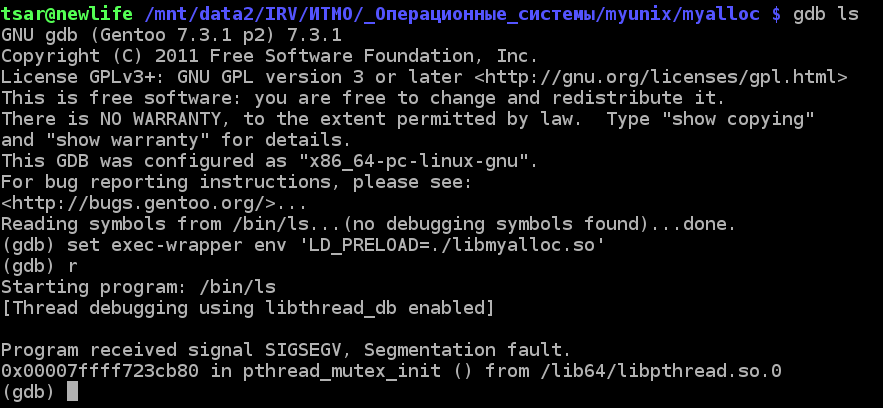
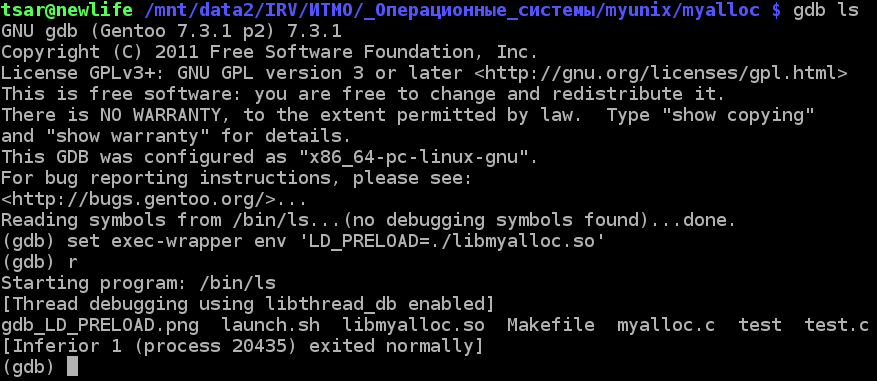
Update screenshot, test.c, add some tests to launch.sh

diff --git a/myalloc/test.c b/myalloc/test.c
@@ -4,7 +4,7 @@
 int main() {
     int n = 500;
     unsigned char* buf = (unsigned char*)malloc(500);
-/*
+
     int i;
     for (i = 0; i < 500; ++i) {
         buf[i] = i % 0xFF;
@@ -12,7 +12,7 @@ int main() {
     for (i = 500 - 1; i >= 0; --i) {
         printf("%d ", buf[i]);
     }
-*/
+
     free(buf);
 
     return 0;
